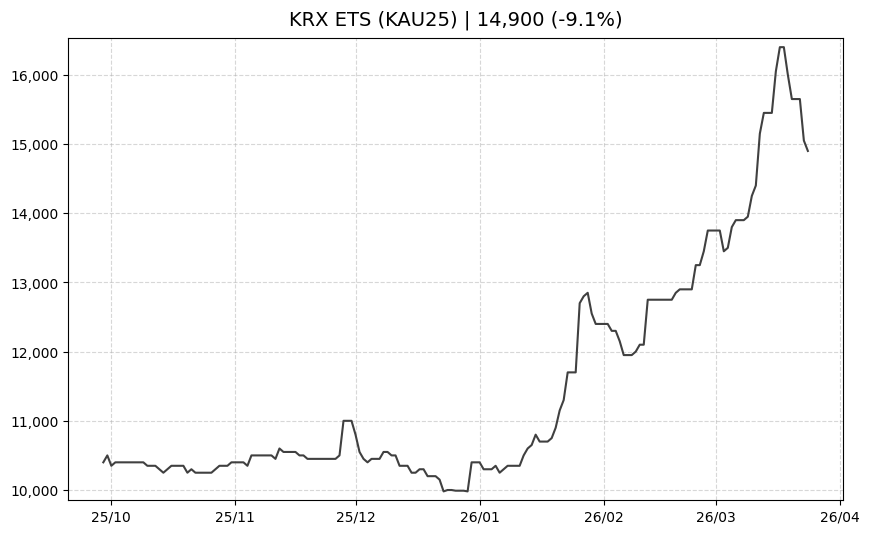
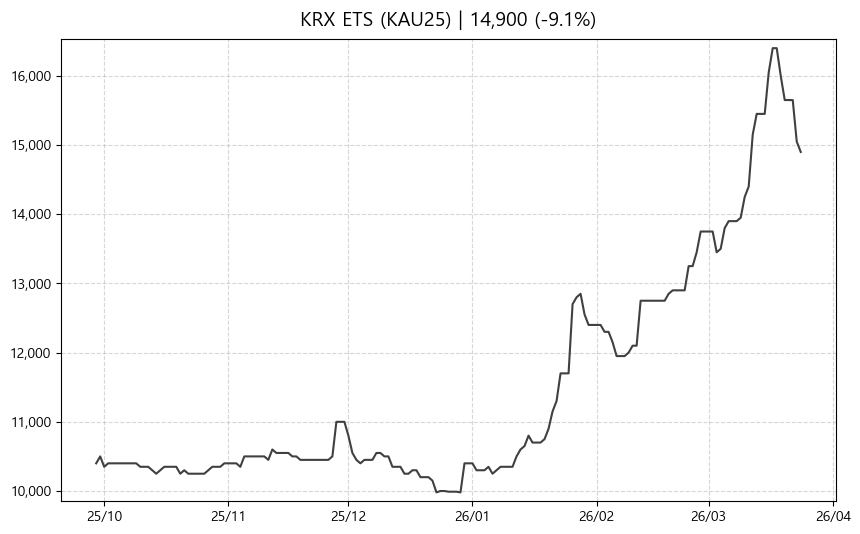
Fix: add Korean font for 억 rendering in charts

diff --git a/index.html b/index.html
@@ -441,7 +441,7 @@
 <body>
     <header>
         <h1>📊 Market Data Dashboard</h1>
-        <div class="last-updated">Updated: 2026-03-25 12:55:53 KST</div>
+        <div class="last-updated">Updated: 2026-03-25 12:57:40 KST</div>
         <div class="nav-group">
             <a href="wrap.html" target="_blank" class="nav-button" style="background-color:#1e40af">📈 WRAP</a>
             <a href="market_alert.html" target="_blank" class="nav-button" style="background-color:#c2410c">🚦 투자유의종목</a>

diff --git a/wrap.html b/wrap.html
@@ -135,7 +135,7 @@
     <div id="mainContent" class="pw-hidden">
     <header>
         <h1>📈 WRAP</h1>
-        <div class="last-updated">Updated: 2026-03-25 12:55:53 KST</div>
+        <div class="last-updated">Updated: 2026-03-25 12:57:40 KST</div>
         <div class="nav-group">
             <a href="index.html" class="nav-button">← Dashboard</a>
         </div>

diff --git a/execution/draw_charts.py b/execution/draw_charts.py
@@ -1,6 +1,15 @@
 
 import pandas as pd
+import matplotlib
 import matplotlib.pyplot as plt
+
+# 한글 폰트 설정
+import platform
+if platform.system() == 'Windows':
+    matplotlib.rc('font', family='Malgun Gothic')
+else:
+    matplotlib.rc('font', family='NanumGothic')
+matplotlib.rcParams['axes.unicode_minus'] = False
 
 # Import shared configuration
 from config import CATEGORY_MAP
